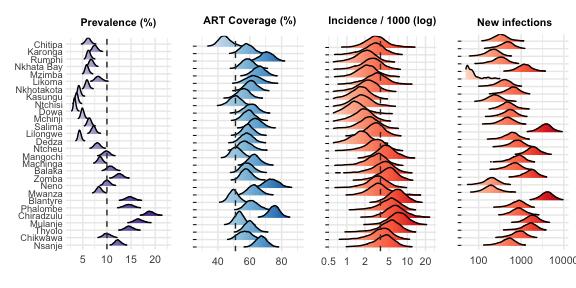
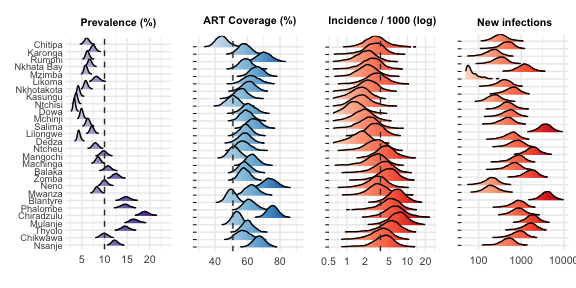
add map to shiny and add shiny to README

diff --git a/README.md b/README.md
@@ -19,8 +19,20 @@ Install the development version of `hivmappr` from
 
 ``` r
 # install.packages("devtools")
-devtools::install_github("mrc-ide/hivmappr")
+devtools::install_github("mrc-ide/hivmappr@shiny")
 ```
+
+## Shiny interface
+
+After installation, to launch the shiny interface:
+
+``` r
+library(hivmappr)
+run_hivmappr()
+```
+
+This is still under development and presently simply shows a demo of the
+workflow.
 
 ## Example
 
@@ -59,7 +71,7 @@ Repository](https://spatialdata.dhsprogram.com/boundaries/#view=map&countryId=MW
 ``` r
 sh <- readOGR(system.file("extdata", "mwsh", package="hivmappr"))
 #> OGR data source with driver: ESRI Shapefile 
-#> Source: "/Library/Frameworks/R.framework/Versions/3.4/Resources/library/hivmappr/extdata/mwsh", layer: "districts"
+#> Source: "/Users/jeff/Downloads/hivmappr/inst/extdata/mwsh", layer: "districts"
 #> with 28 features
 #> It has 3 fields
 plot(sh)
@@ -126,11 +138,19 @@ fit <- sampling(hivmappr:::stanmodels$incidence_rita,
 #> SAMPLING FOR MODEL 'incidence_rita' NOW (CHAIN 1).
 #> Rejecting initial value:
 #>   Error evaluating the log probability at the initial value.
-#> Exception: binomial_lpmf: Probability parameter[1] is -4.74996e+07, but must be in the interval [0, 1]  (in 'model_incidence_rita' at line 145)
+#> Exception: binomial_lpmf: Probability parameter[1] is 9.74753e+07, but must be in the interval [0, 1]  (in 'model_incidence_rita' at line 145)
+#> 
+#> Rejecting initial value:
+#>   Error evaluating the log probability at the initial value.
+#> Exception: binomial_lpmf: Probability parameter[1] is 6.01372e+07, but must be in the interval [0, 1]  (in 'model_incidence_rita' at line 145)
+#> 
+#> Rejecting initial value:
+#>   Error evaluating the log probability at the initial value.
+#> Exception: binomial_lpmf: Probability parameter[1] is 92603, but must be in the interval [0, 1]  (in 'model_incidence_rita' at line 145)
 #> 
 #> 
-#> Gradient evaluation took 0.000116 seconds
-#> 1000 transitions using 10 leapfrog steps per transition would take 1.16 seconds.
+#> Gradient evaluation took 0.000165 seconds
+#> 1000 transitions using 10 leapfrog steps per transition would take 1.65 seconds.
 #> Adjust your expectations accordingly!
 #> 
 #> 
@@ -147,31 +167,19 @@ fit <- sampling(hivmappr:::stanmodels$incidence_rita,
 #> Iteration: 1800 / 2000 [ 90%]  (Sampling)
 #> Iteration: 2000 / 2000 [100%]  (Sampling)
 #> 
-#>  Elapsed Time: 7.1056 seconds (Warm-up)
-#>                5.66293 seconds (Sampling)
-#>                12.7685 seconds (Total)
+#>  Elapsed Time: 6.37376 seconds (Warm-up)
+#>                5.42811 seconds (Sampling)
+#>                11.8019 seconds (Total)
 #> 
 #> 
 #> SAMPLING FOR MODEL 'incidence_rita' NOW (CHAIN 2).
 #> Rejecting initial value:
 #>   Error evaluating the log probability at the initial value.
-#> Exception: binomial_lpmf: Probability parameter[1] is -3.39517, but must be in the interval [0, 1]  (in 'model_incidence_rita' at line 145)
-#> 
-#> Rejecting initial value:
-#>   Error evaluating the log probability at the initial value.
-#> Exception: binomial_lpmf: Probability parameter[1] is -5.64029e+08, but must be in the interval [0, 1]  (in 'model_incidence_rita' at line 145)
-#> 
-#> Rejecting initial value:
-#>   Error evaluating the log probability at the initial value.
-#> Exception: binomial_lpmf: Probability parameter[1] is -1.15516e+07, but must be in the interval [0, 1]  (in 'model_incidence_rita' at line 145)
-#> 
-#> Rejecting initial value:
-#>   Error evaluating the log probability at the initial value.
-#> Exception: binomial_lpmf: Probability parameter[1] is 1.16534e+06, but must be in the interval [0, 1]  (in 'model_incidence_rita' at line 145)
+#> Exception: binomial_lpmf: Probability parameter[1] is -8448.16, but must be in the interval [0, 1]  (in 'model_incidence_rita' at line 145)
 #> 
 #> 
-#> Gradient evaluation took 7.7e-05 seconds
-#> 1000 transitions using 10 leapfrog steps per transition would take 0.77 seconds.
+#> Gradient evaluation took 7.8e-05 seconds
+#> 1000 transitions using 10 leapfrog steps per transition would take 0.78 seconds.
 #> Adjust your expectations accordingly!
 #> 
 #> 
@@ -188,15 +196,15 @@ fit <- sampling(hivmappr:::stanmodels$incidence_rita,
 #> Iteration: 1800 / 2000 [ 90%]  (Sampling)
 #> Iteration: 2000 / 2000 [100%]  (Sampling)
 #> 
-#>  Elapsed Time: 6.6426 seconds (Warm-up)
-#>                4.37309 seconds (Sampling)
-#>                11.0157 seconds (Total)
+#>  Elapsed Time: 6.86799 seconds (Warm-up)
+#>                4.46233 seconds (Sampling)
+#>                11.3303 seconds (Total)
 #> 
 #> 
 #> SAMPLING FOR MODEL 'incidence_rita' NOW (CHAIN 3).
 #> 
-#> Gradient evaluation took 0.000125 seconds
-#> 1000 transitions using 10 leapfrog steps per transition would take 1.25 seconds.
+#> Gradient evaluation took 7.8e-05 seconds
+#> 1000 transitions using 10 leapfrog steps per transition would take 0.78 seconds.
 #> Adjust your expectations accordingly!
 #> 
 #> 
@@ -213,23 +221,15 @@ fit <- sampling(hivmappr:::stanmodels$incidence_rita,
 #> Iteration: 1800 / 2000 [ 90%]  (Sampling)
 #> Iteration: 2000 / 2000 [100%]  (Sampling)
 #> 
-#>  Elapsed Time: 6.63651 seconds (Warm-up)
-#>                3.77269 seconds (Sampling)
-#>                10.4092 seconds (Total)
+#>  Elapsed Time: 6.49051 seconds (Warm-up)
+#>                4.68868 seconds (Sampling)
+#>                11.1792 seconds (Total)
 #> 
 #> 
 #> SAMPLING FOR MODEL 'incidence_rita' NOW (CHAIN 4).
-#> Rejecting initial value:
-#>   Error evaluating the log probability at the initial value.
-#> Exception: binomial_lpmf: Probability parameter[1] is 34.1454, but must be in the interval [0, 1]  (in 'model_incidence_rita' at line 145)
 #> 
-#> Rejecting initial value:
-#>   Error evaluating the log probability at the initial value.
-#> Exception: binomial_lpmf: Probability parameter[1] is 5028.33, but must be in the interval [0, 1]  (in 'model_incidence_rita' at line 145)
-#> 
-#> 
-#> Gradient evaluation took 7.9e-05 seconds
-#> 1000 transitions using 10 leapfrog steps per transition would take 0.79 seconds.
+#> Gradient evaluation took 7.1e-05 seconds
+#> 1000 transitions using 10 leapfrog steps per transition would take 0.71 seconds.
 #> Adjust your expectations accordingly!
 #> 
 #> 
@@ -246,9 +246,12 @@ fit <- sampling(hivmappr:::stanmodels$incidence_rita,
 #> Iteration: 1800 / 2000 [ 90%]  (Sampling)
 #> Iteration: 2000 / 2000 [100%]  (Sampling)
 #> 
-#>  Elapsed Time: 6.84263 seconds (Warm-up)
-#>                3.80519 seconds (Sampling)
-#>                10.6478 seconds (Total)
+#>  Elapsed Time: 6.73428 seconds (Warm-up)
+#>                4.03998 seconds (Sampling)
+#>                10.7743 seconds (Total)
+#> Warning: There were 2 divergent transitions after warmup. Increasing adapt_delta above 0.95 may help. See
+#> http://mc-stan.org/misc/warnings.html#divergent-transitions-after-warmup
+#> Warning: Examine the pairs() plot to diagnose sampling problems
 ```
 
 #### 5\. Display estimates
@@ -372,10 +375,10 @@ panD <- ggplot(data=samp[param == "infections_i"],
   th
 
 grid.arrange(panA, panB, panC, panD, ncol=4, widths=c(1.35, 1, 1, 1))
-#> Picking joint bandwidth of 0.000957
-#> Picking joint bandwidth of 0.00655
-#> Picking joint bandwidth of 0.0289
-#> Picking joint bandwidth of 0.0294
+#> Picking joint bandwidth of 0.000968
+#> Picking joint bandwidth of 0.00665
+#> Picking joint bandwidth of 0.0288
+#> Picking joint bandwidth of 0.0297
 ```
 
 <img src="man/figures/README-district posterior-1.png" width="100%" />
@@ -404,31 +407,31 @@ dcast(est, district+region ~ label, value.var="str") %>% knitr::kable()
 
 | district   | region   | Prevalence (%)    | ART coverage (%) | Incidence (per 1000) | New infections    |
 | :--------- | :------- | :---------------- | :--------------- | :------------------- | :---------------- |
-| Chitipa    | Northern | 6.1 (5.1, 7.2)    | 44 (37, 52)      | 3.6 (1.2, 9.9)       | 400 (100, 1100)   |
-| Karonga    | Northern | 7.5 (6.6, 8.6)    | 58 (51, 66)      | 3.0 (0.7, 6.1)       | 500 (100, 1000)   |
-| Rumphi     | Northern | 6.2 (5.6, 7.1)    | 70 (62, 78)      | 2.2 (0.6, 4.7)       | 200 (100, 500)    |
-| Nkhata Bay | Northern | 6.8 (5.9, 7.7)    | 59 (52, 67)      | 2.7 (0.7, 5.9)       | 300 (100, 700)    |
-| Mzimba     | Northern | 5.9 (5.2, 6.7)    | 66 (58, 74)      | 2.4 (0.8, 5.8)       | 1300 (400, 3100)  |
-| Likoma     | Northern | 8.3 (7.1, 9.7)    | 62 (53, 72)      | 3.4 (0.9, 8.1)       | 0 (0, 0)          |
-| Nkhotakota | Central  | 5.9 (5.3, 6.8)    | 61 (53, 68)      | 2.3 (0.6, 4.8)       | 400 (100, 900)    |
-| Kasungu    | Central  | 4.3 (3.7, 4.9)    | 56 (48, 64)      | 1.7 (0.4, 3.5)       | 700 (200, 1300)   |
-| Ntchisi    | Central  | 3.8 (3.2, 4.4)    | 51 (43, 59)      | 2.0 (0.7, 4.7)       | 300 (100, 600)    |
-| Dowa       | Central  | 3.3 (2.9, 3.9)    | 61 (52, 68)      | 1.5 (0.5, 3.7)       | 500 (200, 1300)   |
-| Mchinji    | Central  | 5.0 (4.4, 5.6)    | 59 (52, 67)      | 1.9 (0.5, 4.0)       | 600 (100, 1100)   |
-| Salima     | Central  | 6.4 (5.6, 7.2)    | 64 (56, 72)      | 2.5 (0.6, 5.3)       | 500 (100, 1100)   |
-| Lilongwe   | Central  | 7.3 (6.4, 8.2)    | 59 (52, 66)      | 3.1 (1.3, 5.9)       | 3900 (1700, 7500) |
-| Dedza      | Central  | 4.4 (3.8, 5.0)    | 58 (51, 66)      | 1.7 (0.4, 3.5)       | 600 (200, 1300)   |
-| Ntcheu     | Central  | 8.0 (6.9, 9.2)    | 57 (50, 66)      | 3.1 (0.7, 6.3)       | 800 (200, 1600)   |
-| Mangochi   | Southern | 9.9 (8.6, 11.2)   | 52 (46, 59)      | 4.8 (2.1, 9.6)       | 2100 (900, 4100)  |
-| Machinga   | Southern | 8.6 (7.6, 9.6)    | 63 (56, 71)      | 3.2 (0.8, 6.4)       | 900 (200, 1700)   |
-| Balaka     | Southern | 10.8 (9.5, 12.2)  | 59 (52, 66)      | 4.2 (1.0, 8.7)       | 700 (200, 1400)   |
-| Zomba      | Southern | 12.6 (11.2, 14.0) | 58 (52, 65)      | 5.0 (1.8, 9.6)       | 1800 (600, 3400)  |
-| Neno       | Southern | 10.1 (9.0, 11.4)  | 74 (65, 82)      | 3.4 (0.8, 7.6)       | 200 (100, 500)    |
-| Mwanza     | Southern | 8.4 (7.4, 9.5)    | 63 (55, 71)      | 4.1 (1.4, 11.5)      | 200 (100, 700)    |
-| Blantyre   | Southern | 14.8 (13.1, 16.7) | 50 (44, 56)      | 7.2 (3.3, 13.3)      | 4300 (2000, 7900) |
-| Phalombe   | Southern | 14.6 (12.8, 16.5) | 61 (54, 70)      | 5.3 (1.4, 10.4)      | 900 (200, 1700)   |
-| Chiradzulu | Southern | 19.0 (17.4, 20.7) | 75 (69, 82)      | 7.1 (2.5, 16.5)      | 1000 (300, 2300)  |
-| Mulanje    | Southern | 16.6 (14.9, 18.5) | 53 (48, 59)      | 7.6 (2.8, 15.0)      | 1900 (700, 3800)  |
-| Thyolo     | Southern | 14.6 (13.0, 16.4) | 60 (53, 67)      | 5.4 (1.3, 10.5)      | 1600 (400, 3200)  |
-| Chikwawa   | Southern | 10.0 (8.6, 11.6)  | 57 (49, 66)      | 4.0 (1.0, 8.2)       | 900 (200, 1900)   |
-| Nsanje     | Southern | 12.3 (11.1, 13.7) | 67 (60, 74)      | 4.4 (1.2, 9.0)       | 500 (100, 1100)   |
+| Chitipa    | Northern | 6.1 (5.1, 7.2)    | 44 (37, 53)      | 3.6 (1.2, 9.5)       | 400 (100, 1000)   |
+| Karonga    | Northern | 7.6 (6.6, 8.6)    | 58 (51, 66)      | 3.0 (0.7, 6.1)       | 500 (100, 1000)   |
+| Rumphi     | Northern | 6.3 (5.6, 7.1)    | 70 (62, 79)      | 2.2 (0.6, 4.8)       | 200 (100, 500)    |
+| Nkhata Bay | Northern | 6.8 (6.0, 7.7)    | 59 (51, 67)      | 2.8 (0.7, 6.2)       | 300 (100, 800)    |
+| Mzimba     | Northern | 5.9 (5.2, 6.7)    | 66 (58, 74)      | 2.4 (0.8, 5.2)       | 1300 (400, 2800)  |
+| Likoma     | Northern | 8.3 (7.1, 9.7)    | 62 (53, 72)      | 3.4 (0.9, 7.5)       | 0 (0, 0)          |
+| Nkhotakota | Central  | 5.9 (5.2, 6.8)    | 61 (53, 69)      | 2.3 (0.6, 4.9)       | 400 (100, 900)    |
+| Kasungu    | Central  | 4.3 (3.7, 5.0)    | 56 (48, 64)      | 1.7 (0.5, 3.4)       | 600 (200, 1300)   |
+| Ntchisi    | Central  | 3.8 (3.2, 4.4)    | 51 (44, 59)      | 2.0 (0.7, 5.1)       | 300 (100, 700)    |
+| Dowa       | Central  | 3.3 (2.9, 3.9)    | 61 (52, 69)      | 1.5 (0.5, 3.6)       | 500 (200, 1300)   |
+| Mchinji    | Central  | 5.0 (4.4, 5.6)    | 59 (52, 67)      | 1.9 (0.5, 4.1)       | 600 (100, 1200)   |
+| Salima     | Central  | 6.4 (5.6, 7.2)    | 64 (56, 72)      | 2.5 (0.6, 5.5)       | 500 (100, 1100)   |
+| Lilongwe   | Central  | 7.3 (6.4, 8.2)    | 59 (52, 66)      | 3.1 (1.4, 5.8)       | 3900 (1700, 7300) |
+| Dedza      | Central  | 4.4 (3.8, 5.1)    | 58 (50, 66)      | 1.7 (0.5, 3.5)       | 600 (200, 1300)   |
+| Ntcheu     | Central  | 8.0 (6.9, 9.2)    | 57 (50, 66)      | 3.1 (0.8, 6.2)       | 800 (200, 1600)   |
+| Mangochi   | Southern | 9.9 (8.6, 11.2)   | 52 (45, 59)      | 4.7 (1.9, 9.7)       | 2000 (800, 4200)  |
+| Machinga   | Southern | 8.6 (7.6, 9.7)    | 63 (56, 71)      | 3.2 (0.8, 6.4)       | 800 (200, 1700)   |
+| Balaka     | Southern | 10.8 (9.4, 12.2)  | 58 (51, 67)      | 4.2 (1.1, 8.8)       | 700 (200, 1400)   |
+| Zomba      | Southern | 12.5 (11.2, 14.1) | 58 (52, 65)      | 5.0 (1.5, 9.6)       | 1700 (500, 3300)  |
+| Neno       | Southern | 10.1 (9.0, 11.3)  | 74 (65, 82)      | 3.4 (0.9, 7.4)       | 200 (100, 500)    |
+| Mwanza     | Southern | 8.4 (7.4, 9.5)    | 63 (55, 71)      | 4.0 (1.3, 10.5)      | 200 (100, 600)    |
+| Blantyre   | Southern | 14.8 (13.1, 16.7) | 50 (44, 56)      | 7.1 (3.1, 13.2)      | 4200 (1900, 7900) |
+| Phalombe   | Southern | 14.5 (12.8, 16.4) | 61 (54, 70)      | 5.4 (1.4, 10.8)      | 900 (200, 1700)   |
+| Chiradzulu | Southern | 19.0 (17.3, 20.8) | 75 (69, 82)      | 7.1 (2.5, 17.0)      | 1000 (300, 2300)  |
+| Mulanje    | Southern | 16.6 (14.9, 18.6) | 53 (47, 59)      | 7.6 (3.1, 14.9)      | 1900 (800, 3800)  |
+| Thyolo     | Southern | 14.6 (12.9, 16.4) | 60 (53, 67)      | 5.3 (1.2, 10.4)      | 1600 (400, 3200)  |
+| Chikwawa   | Southern | 10.0 (8.6, 11.5)  | 57 (50, 66)      | 3.9 (1.0, 8.1)       | 900 (200, 1900)   |
+| Nsanje     | Southern | 12.3 (11.0, 13.8) | 67 (60, 75)      | 4.4 (1.2, 9.3)       | 500 (100, 1100)   |
